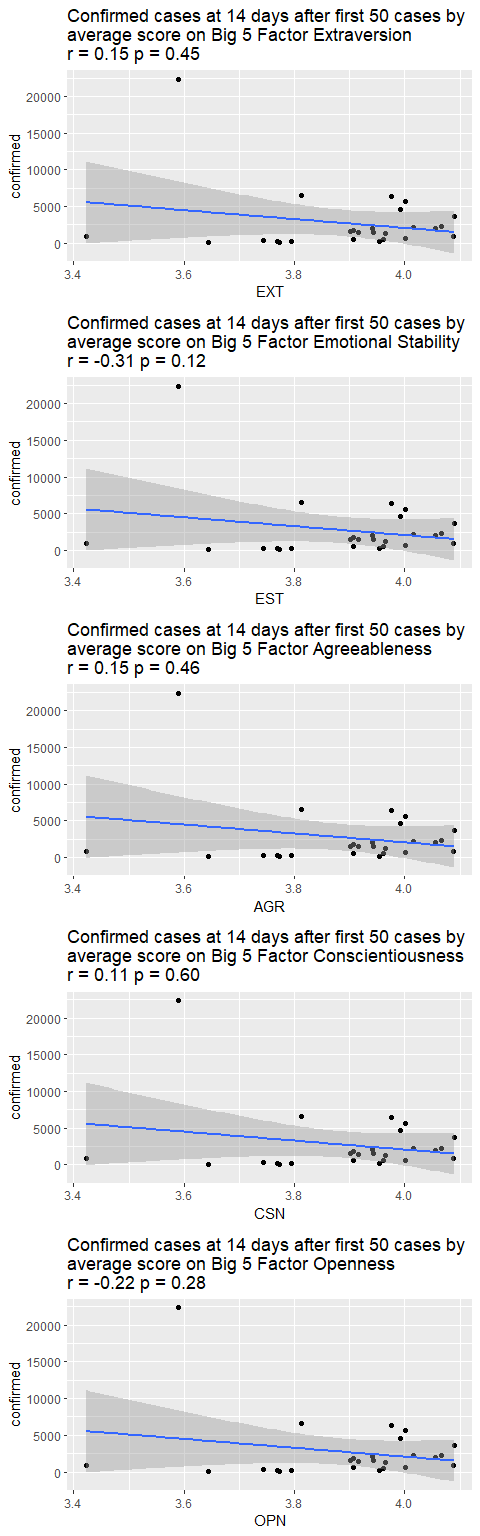
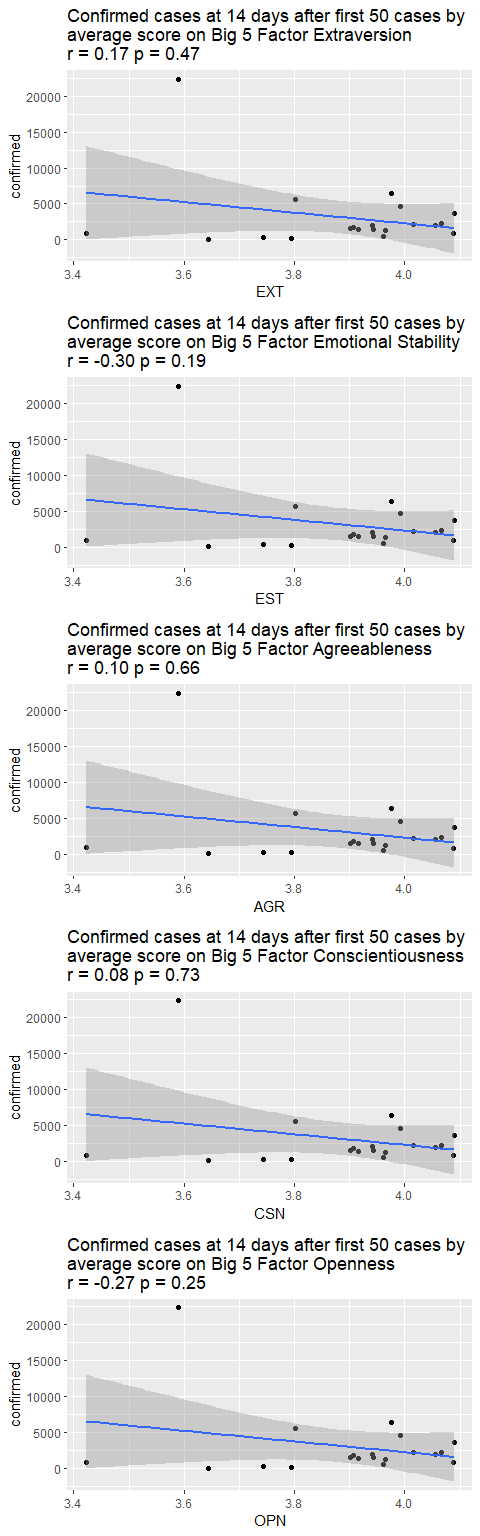
fix filter data

diff --git a/big5-replication/README.md b/big5-replication/README.md
@@ -179,6 +179,7 @@ country_code <- read_csv(here("/02_data/Wikipedia-iso-country-codes.csv")) %>%
 
 ``` r
 covid19_df <- covid19_df %>% 
+  mutate(alpha_2 = countrycode::countrycode(country_region, origin = "country.name", destination = "iso2c")) %>% 
   left_join(country_code) %>% 
   clean_names()
 
@@ -263,17 +264,17 @@ unique(big5_filtered$country)
 This is by no way an efficient way but for now it will have to hold:
 
 ``` r
-big5$ext_mean <- rowMeans(big5[,1:10])
-big5$est_mean <- rowMeans(big5[,11:20])
-big5$agr_mean <- rowMeans(big5[,21:30])
-big5$csn_mean <- rowMeans(big5[,31:40])
-big5$opn_mean <- rowMeans(big5[,41:50])
+big5_filtered$ext_mean <- rowMeans(big5_filtered[,1:10])
+big5_filtered$est_mean <- rowMeans(big5_filtered[,11:20])
+big5_filtered$agr_mean <- rowMeans(big5_filtered[,21:30])
+big5_filtered$csn_mean <- rowMeans(big5_filtered[,31:40])
+big5_filtered$opn_mean <- rowMeans(big5_filtered[,41:50])
 ```
 
 ### Country level averages:
 
 ``` r
-country_average <- big5 %>% 
+country_average <- big5_filtered %>% 
   group_by(country) %>% 
   summarise_at(vars(ext_mean:opn_mean), mean, na.rm = T) %>% 
   ungroup()
@@ -296,7 +297,7 @@ country_average %>%
 ### Merge tables and plot
 
 ``` r
-merged_tables <- country_average %>% 
+merged_tables <- country_average %>%
   inner_join(covid19_df, by = c("country" = "alpha_2"))
 ```
 
@@ -327,14 +328,14 @@ for(i in 1:5) {
 cowplot::plot_grid(plotlist = plots, nrow = 5)
 ```
 
-![](replicating_covid19_big5_files/figure-gfm/unnamed-chunk-18-1.png)<!-- -->
+![](replicating_covid19_big5_files/figure-gfm/unnamed-chunk-17-1.png)<!-- -->
 
 China might be an outlier in this case, since that is where the outbreak
 started.  
 therefore I will create the plots again without china this time around:
 
 ``` r
-merged_tables_nocn <- merged_tables %>% 
+merged_tables_nocn <- merged_tables %>%
   filter(country != "CN")
 
 plots2 <- list()
@@ -356,14 +357,14 @@ for(i in 1:5) {
 cowplot::plot_grid(plotlist = plots2, nrow = 5)
 ```
 
-![](replicating_covid19_big5_files/figure-gfm/unnamed-chunk-19-1.png)<!-- -->
+![](replicating_covid19_big5_files/figure-gfm/unnamed-chunk-18-1.png)<!-- -->
 
 It seems like only OPN (openness) showed a pattern. Countries with
 higher levels of openness saw a higher growth of confirmed cases along
 the 14 days.
 
 ``` r
-merged_tables %>% 
+merged_tables %>%
   select(country_region, opn_mean, sum_confirmed_cases) %>% 
   arrange(-opn_mean) %>% 
   knitr::kable() %>% 
@@ -514,50 +515,6 @@ Switzerland
 
 <td style="text-align:left;">
 
-Cruise Ship
-
-</td>
-
-<td style="text-align:right;">
-
-4.001299
-
-</td>
-
-<td style="text-align:right;">
-
-634
-
-</td>
-
-</tr>
-
-<tr>
-
-<td style="text-align:left;">
-
-Korea, South
-
-</td>
-
-<td style="text-align:right;">
-
-4.001299
-
-</td>
-
-<td style="text-align:right;">
-
-5621
-
-</td>
-
-</tr>
-
-<tr>
-
-<td style="text-align:left;">
-
 Italy
 
 </td>
@@ -646,28 +603,6 @@ Greece
 
 <td style="text-align:left;">
 
-Iraq
-
-</td>
-
-<td style="text-align:right;">
-
-3.954839
-
-</td>
-
-<td style="text-align:right;">
-
-208
-
-</td>
-
-</tr>
-
-<tr>
-
-<td style="text-align:left;">
-
 Denmark
 
 </td>
@@ -734,28 +669,6 @@ Norway
 
 <td style="text-align:left;">
 
-Iceland
-
-</td>
-
-<td style="text-align:right;">
-
-3.907189
-
-</td>
-
-<td style="text-align:right;">
-
-568
-
-</td>
-
-</tr>
-
-<tr>
-
-<td style="text-align:left;">
-
 Belgium
 
 </td>
@@ -800,19 +713,19 @@ United Kingdom
 
 <td style="text-align:left;">
 
-Iran
+Korea, South
 
 </td>
 
 <td style="text-align:right;">
 
-3.813054
+3.801193
 
 </td>
 
 <td style="text-align:right;">
 
-6566
+5621
 
 </td>
 
@@ -835,50 +748,6 @@ Japan
 <td style="text-align:right;">
 
 241
-
-</td>
-
-</tr>
-
-<tr>
-
-<td style="text-align:left;">
-
-Kuwait
-
-</td>
-
-<td style="text-align:right;">
-
-3.773048
-
-</td>
-
-<td style="text-align:right;">
-
-112
-
-</td>
-
-</tr>
-
-<tr>
-
-<td style="text-align:left;">
-
-Bahrain
-
-</td>
-
-<td style="text-align:right;">
-
-3.769565
-
-</td>
-
-<td style="text-align:right;">
-
-228
 
 </td>
 
@@ -1008,7 +877,7 @@ boxplot(results)
 # dev.off()
 ```
 
-<img src="https://github.com/AmitLevinson/replications/blob/master/big5-replication/fig/benchmark_big5.png" width="600" />
+<img src="C:/Users/amitl/R_code/replications/big5-replication//fig/benchmark_big5.png" width="600" />
 
 1.  Actually, this drove me a bit crazy as I was having trouble figuring
     this out. Sometimes you just have to open that csv and give it a
